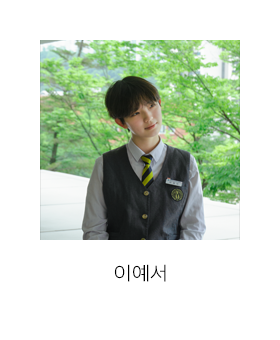
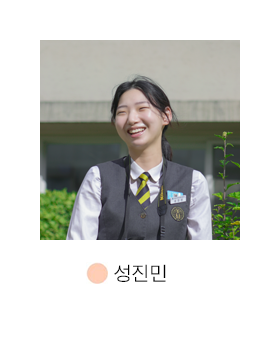
작가 프로필 페이지 수정

diff --git a/gallery_photographer_profile.html b/gallery_photographer_profile.html
@@ -36,16 +36,20 @@
     </nav>
     <main>
         <div class="profile-1"><a href="gallery_photographer_11.html"><img src="img/profile_1.png"></a></div>
-        <div class="profile-2"><a href="gallery_photographer_7.html"><img src="img/profile_2.png"></a></div>
-        <div class="profile-3"><a href="gallery_photographer_10.html"><img src="img/profile_3.png"></a></div>
-        <div class="profile-4"><a href="gallery_photographer_8.html"><img src="img/profile_4.png"></a></div>
-        <div class="profile-5"><a href="gallery_photographer_11.html"><img src="img/profile_4.png"></a></div>
-        <div class="profile-6"><a href="gallery_photographer_11.html"><img src="img/profile_4.png"></a></div>
-        <div class="profile-7"><a href="gallery_photographer_11.html"><img src="img/profile_4.png"></a></div>
-        <div class="profile-8"><a href="gallery_photographer_11.html"><img src="img/profile_4.png"></a></div>
-        <div class="profile-9"><a href="gallery_photographer_11.html"><img src="img/profile_4.png"></a></div>
-        <div class="profile-10"><a href="gallery_photographer_11.html"><img src="img/profile_4.png"></a></div>
-        <div class="profile-11"><a href="gallery_photographer_11.html"><img src="img/profile_4.png"></a></div>
+        <div class="profile-2"><a href="gallery_photographer_0.html"><img src="img/profile_2.png"></a></div>
+        <div class="profile-3"><a href="gallery_photographer_6.html"><img src="img/profile_3.png"></a></div>
+        <div class="profile-4"><a href="gallery_photographer_7.html"><img src="img/profile_4.png"></a></div>
+        <div class="profile-5"><a href="gallery_photographer_10.html"><img src="img/profile_5.png"></a></div>
+        <div class="profile-6"><a href="gallery_photographer_8.html"><img src="img/profile_6.png"></a></div>
+        <div class="profile-7"><a href="gallery_photographer_2.html"><img src="img/profile_7.png"></a></div>
+        <div class="profile-8"><a href="gallery_photographer_5.html"><img src="img/profile_8.png"></a></div>
+        <div class="profile-9"><a href="gallery_photographer_3.html"><img src="img/profile_9.png"></a></div>
+        <div class="profile-10"><a href="gallery_photographer_9.html"><img src="img/profile_10.png"></a></div>
+        <div class="profile-11"><a href="gallery_photographer_1.html"><img src="img/profile_11.png"></a></div>
+        <div class="profile-12"><a href="gallery_photographer_0.html"><img src="img/profile_12.png"></a></div>
+        <div class="profile-13"><a href="gallery_photographer_12.html"><img src="img/profile_13.png"></a></div>
+        <div class="profile-14"><a href="gallery_photographer_4.html"><img src="img/profile_14.png"></a></div>
+        <div class="profile-15"><a href="gallery_photographer_0.html"><img src="img/profile_15.png"></a></div>
     </main>
     <div id="pop" class="popbox">
         <div class="login-title">LOGIN</div>

diff --git a/css/gallery_photographer_profile.css b/css/gallery_photographer_profile.css
@@ -118,3 +118,47 @@
     border-radius: 4px;
     border: 1px solid #008156;
   }
+
+  .profile-12 {
+    position: absolute;
+    box-shadow: 5px 5px 5px 5px #00000010;
+    width: 280px;
+    height: 340px;
+    top: 1260px;
+    left: 1270px;
+    border-radius: 4px;
+    border: 1px solid #008156;
+  }
+
+  .profile-13 {
+    position: absolute;
+    box-shadow: 5px 5px 5px 5px #00000010;
+    width: 280px;
+    height: 340px;
+    top: 1580px;
+    left: 370px;
+    border-radius: 4px;
+    border: 1px solid #008156;
+  }
+
+  .profile-14 {
+    position: absolute;
+    box-shadow: 5px 5px 5px 5px #00000010;
+    width: 280px;
+    height: 340px;
+    top: 1620px;
+    left: 670px;
+    border-radius: 4px;
+    border: 1px solid #008156;
+  }
+
+  .profile-15 {
+    position: absolute;
+    box-shadow: 5px 5px 5px 5px #00000010;
+    width: 280px;
+    height: 340px;
+    top: 1580px;
+    left: 970px;
+    border-radius: 4px;
+    border: 1px solid #008156;
+  }
